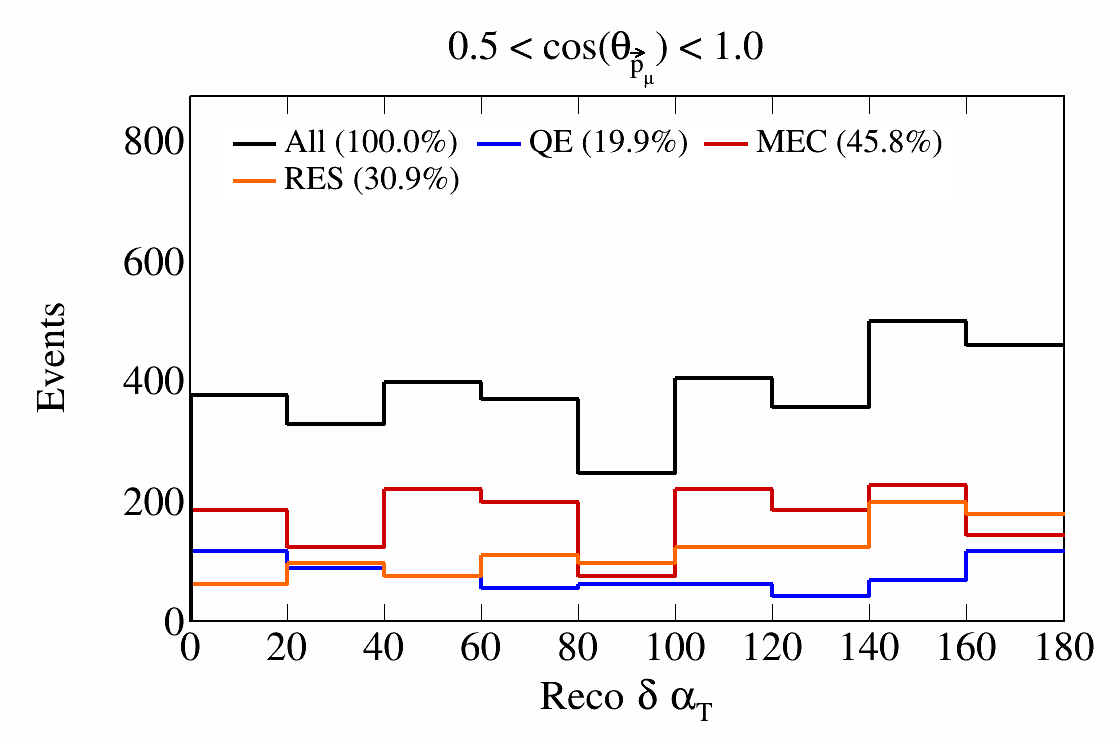
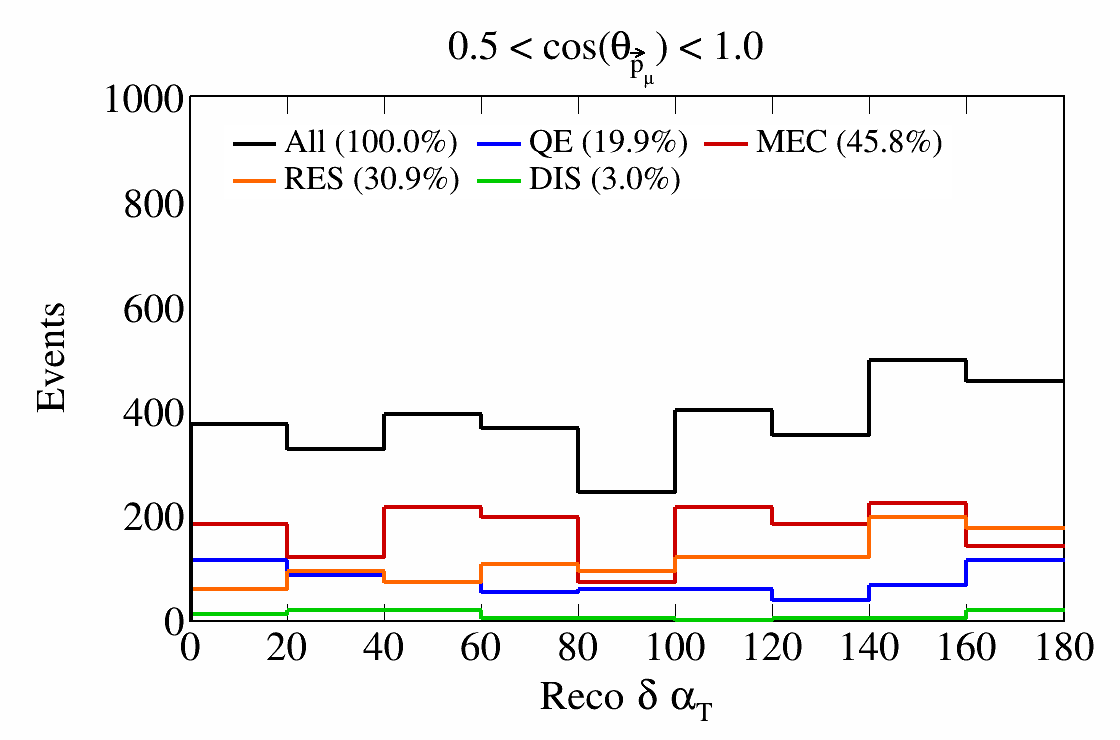
Topology and interaction breakdown for SBND analysis

diff --git a/CAFAnaAnalysis/Scripts/SelectionTopologyBreakdown.C b/CAFAnaAnalysis/Scripts/SelectionTopologyBreakdown.C
@@ -27,7 +27,7 @@ using namespace std;
 using namespace ana;
 using namespace Constants;
 
-void SelectionInteBreakdown() {
+void SelectionTopologyBreakdown() {
     // Set defaults and load tools
     TH1D::SetDefaultSumw2();
     TH2D::SetDefaultSumw2();
@@ -47,7 +47,7 @@ void SelectionInteBreakdown() {
     TString dir = "/exp/sbnd/app/users/epelaez/CC1muAnalysis";
 
     // Root file to store objects in
-    TString RootFilePath = "/exp/sbnd/data/users/epelaez/CAFAnaOutput/SelectionInteBreakdown.root";
+    TString RootFilePath = "/exp/sbnd/data/users/epelaez/CAFAnaOutput/SelectionTopologyBreakdown.root";
     TFile* SaveFile = new TFile(RootFilePath, "UPDATE");
 
     // Vectors to fill with variables and variable information to plot
@@ -118,34 +118,34 @@ void SelectionInteBreakdown() {
     Vars.push_back(kCosOpeningAngleMuonTotalProtonInMuonCosTheta); VarBins.push_back(bCosOpeningAngleMuonTotalProtonInMuonCosTheta);
     PlotNames.push_back("SerialCosOpeningAngleMuonTotalProton_InMuonCosTheta"); VarLabels.push_back("cos(#theta_{#vec{p}_{#mu},#vec{p}_{sum}})");
 
-    ////////////////////
-    // Interaction modes
-    ////////////////////
+    //////////////
+    // Topologies
+    //////////////
 
-    std::vector<std::tuple<std::string, int>> IntModes = {
-        {"QE", 0},
-        {"MEC", 10},
-        {"RES", 1},
-        {"DIS", 2}
+    std::vector<std::tuple<std::string, TruthCut>> Topologies = {
+        {"CC2p0#pi", kTruthIsSignal},
+        {"CC1p0#pi", kCC1p0pi},
+        {"CC(N > 2)p0#pi", kCCNg2p0pi},
+        {"CC(N #geq 0)p1#pi", kCCNgt0p1pi},
+        {"CC0p0#pi", kCC0p0pi},
+        {"Other", kOtherTopology}
+        // {"CC(N #geq 0)p(N > 1)#pi", kCCNgt0pNg1pi},
     };
-    std::vector<int> Colors{kBlack, kBlue, kRed+1, kOrange+7, kGreen+1};
+    std::vector<int> Colors{kBlack, kBlue, kRed+1, kOrange+7, kGreen+1, kMagenta+1, kCyan+2};
 
     std::vector<std::vector<std::unique_ptr<Spectrum>>> Spectra;
     for (std::size_t i = 0; i < Vars.size(); i++) {
         std::vector<std::unique_ptr<Spectrum>> InnerSpectra;
 
-        // Without any interaction discrimination
+        // Without any topology discrimination
         auto RecoSignals = std::make_unique<Spectrum>(VarLabels.at(i), VarBins.at(i), NuLoader, Vars.at(i), kNoSpillCut, kRecoIsSignal); 
         InnerSpectra.push_back(std::move(RecoSignals));
 
-        for (std::size_t j = 0; j < IntModes.size(); j++) {
-            int IntCode = std::get<1>(IntModes[j]);
+        for (std::size_t j = 0; j < Topologies.size(); j++) {
+            TruthCut TopologyCut = std::get<1>(Topologies[j]);
 
             const Cut kRecoSignalsCut([=](const caf::SRSliceProxy* slc) {
-                return (
-                    kRecoIsSignal(slc) &&
-                    slc->truth.genie_mode == IntCode
-                );
+                return kRecoIsSignal(slc) && TopologyCut(&slc->truth);
             });
             auto RecoSignals = std::make_unique<Spectrum>(VarLabels.at(i), VarBins.at(i), NuLoader, Vars.at(i), kNoSpillCut, kRecoSignalsCut); 
             InnerSpectra.push_back(std::move(RecoSignals));
@@ -166,7 +166,7 @@ void SelectionInteBreakdown() {
             std::vector<std::vector<TH1D*>> Histos;
             Histos.resize(NSlices);
             for (int iSlice = 0; iSlice < NSlices; iSlice++) {
-                Histos[iSlice].resize(IntModes.size());
+                Histos[iSlice].resize(Topologies.size());
             }
 
             for (int iSlice = 0; iSlice < NSlices; iSlice++) {
@@ -191,59 +191,58 @@ void SelectionInteBreakdown() {
                 PlotCanvas->SetRightMargin(0.05);
                 PlotCanvas->SetBottomMargin(0.16);
 
-                TLegend* leg = new TLegend(0.2,0.73,0.85,0.83);
+                TLegend* leg = new TLegend(0.2,0.68,0.87,0.83);
                 leg->SetBorderSize(0);
-                leg->SetNColumns(3);
-                leg->SetTextSize(TextSize*0.8);
+                leg->SetNColumns(2);
+                leg->SetTextSize(TextSize*0.7);
                 leg->SetTextFont(FontStyle);
 
-                for (std::size_t iInt = 0; iInt < IntModes.size() + 1; iInt++) {
-                    auto& IntRecoSignals = Spectra[iVar][iInt];
-                    Histos[iSlice][iInt]= tools.GetHistoBins(
-                        IntRecoSignals->ToTH1(TargetPOT),
+                for (std::size_t iTop = 0; iTop < Topologies.size() + 1; iTop++) {
+                    auto& TopRecoSignals = Spectra[iVar][iTop];
+                    Histos[iSlice][iTop]= tools.GetHistoBins(
+                        TopRecoSignals->ToTH1(TargetPOT),
                         SerialVectorLowBin.at(iSlice),
                         SerialVectorHighBin.at(iSlice),
                         SliceWidth,
                         SerialSliceBinning,
-                        VarLabels[iInt]
+                        VarLabels[iTop]
                     );
-                    Histos[iSlice][iInt]->SetLineWidth(4);
-                    Histos[iSlice][iInt]->SetLineColor(Colors.at(iInt));
+                    Histos[iSlice][iTop]->SetLineWidth(4);
+                    Histos[iSlice][iTop]->SetLineColor(Colors.at(iTop));
 
-                    Histos[iSlice][iInt]->GetXaxis()->SetTitleFont(FontStyle);
-                    Histos[iSlice][iInt]->GetXaxis()->SetLabelFont(FontStyle);
-                    Histos[iSlice][iInt]->GetXaxis()->SetNdivisions(8);
-                    Histos[iSlice][iInt]->GetXaxis()->SetLabelSize(TextSize);
-                    Histos[iSlice][iInt]->GetXaxis()->SetTitle(("Reco " + VarLabels.at(iVar)).c_str());
-                    Histos[iSlice][iInt]->GetXaxis()->SetTitleSize(TextSize);
-                    Histos[iSlice][iInt]->GetXaxis()->SetTitleOffset(1.1);
-                    Histos[iSlice][iInt]->GetXaxis()->CenterTitle();
+                    Histos[iSlice][iTop]->GetXaxis()->SetTitleFont(FontStyle);
+                    Histos[iSlice][iTop]->GetXaxis()->SetLabelFont(FontStyle);
+                    Histos[iSlice][iTop]->GetXaxis()->SetNdivisions(8);
+                    Histos[iSlice][iTop]->GetXaxis()->SetLabelSize(TextSize);
+                    Histos[iSlice][iTop]->GetXaxis()->SetTitle(("Reco " + VarLabels.at(iVar)).c_str());
+                    Histos[iSlice][iTop]->GetXaxis()->SetTitleSize(TextSize);
+                    Histos[iSlice][iTop]->GetXaxis()->SetTitleOffset(1.1);
+                    Histos[iSlice][iTop]->GetXaxis()->CenterTitle();
 
-                    Histos[iSlice][iInt]->GetYaxis()->SetTitleFont(FontStyle);
-                    Histos[iSlice][iInt]->GetYaxis()->SetLabelFont(FontStyle);
-                    Histos[iSlice][iInt]->GetYaxis()->SetNdivisions(6);
-                    Histos[iSlice][iInt]->GetYaxis()->SetLabelSize(TextSize);
-                    Histos[iSlice][iInt]->GetYaxis()->SetTitleSize(TextSize);
-                    Histos[iSlice][iInt]->GetYaxis()->SetTitleOffset(1.3);
-                    Histos[iSlice][iInt]->GetYaxis()->SetTickSize(0);
-                    Histos[iSlice][iInt]->GetYaxis()->CenterTitle();
+                    Histos[iSlice][iTop]->GetYaxis()->SetTitleFont(FontStyle);
+                    Histos[iSlice][iTop]->GetYaxis()->SetLabelFont(FontStyle);
+                    Histos[iSlice][iTop]->GetYaxis()->SetNdivisions(6);
+                    Histos[iSlice][iTop]->GetYaxis()->SetLabelSize(TextSize);
+                    Histos[iSlice][iTop]->GetYaxis()->SetTitleSize(TextSize);
+                    Histos[iSlice][iTop]->GetYaxis()->SetTitleOffset(1.3);
+                    Histos[iSlice][iTop]->GetYaxis()->SetTickSize(0);
+                    Histos[iSlice][iTop]->GetYaxis()->CenterTitle();
 
-                    double imax = TMath::Max(Histos[iSlice][iInt]->GetMaximum(),Histos[iSlice][0]->GetMaximum());
-                    double YAxisRange = 1.15*imax;
-                    Histos[iSlice][iInt]->GetYaxis()->SetRangeUser(0.,YAxisRange);
-                    Histos[iSlice][0]->GetYaxis()->SetRangeUser(0.,YAxisRange);			
+                    double imax = Histos[iSlice][0]->GetMaximum();
+                    double YAxisRange = 1.4*imax;
+                    Histos[iSlice][iTop]->GetYaxis()->SetRangeUser(0.,YAxisRange);
 
-                    double frac = Histos[iSlice][iInt]->Integral("width") / Histos[iSlice][0]->Integral("width") * 100.;
-                    std::string IntLabel = (iInt == 0) ? "All" : std::get<0>(IntModes[iInt - 1]);
-                    TString LegLabel = (TString)IntLabel + " (" + tools.to_string_with_precision(frac,1) + "%)";
-                    TLegendEntry* legReco = leg->AddEntry(Histos[iSlice][iInt],LegLabel,"l");
+                    double frac = Histos[iSlice][iTop]->Integral("width") / Histos[iSlice][0]->Integral("width") * 100.;
+                    std::string TopLabel = (iTop == 0) ? "All" : std::get<0>(Topologies[iTop - 1]);
+                    TString LegLabel = (TString)TopLabel + " (" + tools.to_string_with_precision(frac,1) + "%)";
+                    TLegendEntry* legReco = leg->AddEntry(Histos[iSlice][iTop],LegLabel,"l");
 
                     PlotCanvas->cd();
-                    Histos[iSlice][iInt]->Draw("hist same");
+                    Histos[iSlice][iTop]->Draw("hist same");
                     Histos[iSlice][0]->Draw("hist same");
 
                     // Save to root file
-                    SaveFile->WriteObject(Histos[iSlice][iInt], SlicePlotName+(TString)LegLabel+"_reco");
+                    SaveFile->WriteObject(Histos[iSlice][iTop], SlicePlotName+(TString)LegLabel+"_reco");
                 }
                 leg->Draw();
 
@@ -254,77 +253,75 @@ void SelectionInteBreakdown() {
                 textSlice->DrawLatexNDC(0.4,0.92,SliceLabel);
 
                 // Save as png
-                PlotCanvas->SaveAs(dir+"/Figs/CAFAna/InteBreakdown/"+SlicePlotName+".png");
+                PlotCanvas->SaveAs(dir+"/Figs/CAFAna/TopologyBreakdown/"+SlicePlotName+".png");
 
                 delete PlotCanvas;
             }
         } else {
-            std::vector<TH1D*> Histos; Histos.resize(IntModes.size() + 1);
+            std::vector<TH1D*> Histos; Histos.resize(Topologies.size() + 1);
             TCanvas* PlotCanvas = new TCanvas("Selection","Selection",205,34,1124,768);
             PlotCanvas->SetTopMargin(0.13);
             PlotCanvas->SetLeftMargin(0.17);
             PlotCanvas->SetRightMargin(0.05);
             PlotCanvas->SetBottomMargin(0.16);
 
-            TLegend* leg = new TLegend(0.2,0.73,0.85,0.83);
+            TLegend* leg = new TLegend(0.2,0.68,0.87,0.83);
             leg->SetBorderSize(0);
-            leg->SetNColumns(3);
-            leg->SetTextSize(TextSize*0.8);
+            leg->SetNColumns(2);
+            leg->SetTextSize(TextSize*0.7);
             leg->SetTextFont(FontStyle);
 
-            for (std::size_t iInt = 0; iInt < IntModes.size() + 1; iInt++) {
-                auto& IntRecoSignals = Spectra[iVar][iInt];
-                Histos[iInt] = IntRecoSignals->ToTH1(TargetPOT);
+            for (std::size_t iTop = 0; iTop < Topologies.size() + 1; iTop++) {
+                auto& TopRecoSignals = Spectra[iVar][iTop];
+                Histos[iTop] = TopRecoSignals->ToTH1(TargetPOT);
 
                 // Manage under/overflow bins
-                Histos[iInt]->SetBinContent(Histos[iInt]->GetNbinsX(), Histos[iInt]->GetBinContent(Histos[iInt]->GetNbinsX()) + Histos[iInt]->GetBinContent(Histos[iInt]->GetNbinsX() + 1));
-                Histos[iInt]->SetBinContent(1, Histos[iInt]->GetBinContent(0) + Histos[iInt]->GetBinContent(1));
+                Histos[iTop]->SetBinContent(Histos[iTop]->GetNbinsX(), Histos[iTop]->GetBinContent(Histos[iTop]->GetNbinsX()) + Histos[iTop]->GetBinContent(Histos[iTop]->GetNbinsX() + 1));
+                Histos[iTop]->SetBinContent(1, Histos[iTop]->GetBinContent(0) + Histos[iTop]->GetBinContent(1));
 
-                double frac = Histos[iInt]->Integral("width") / Histos[0]->Integral("width") * 100.;
-                std::string IntLabel = (iInt == 0) ? "All" : std::get<0>(IntModes[iInt - 1]);
-                TString LegLabel = (TString)IntLabel + " (" + tools.to_string_with_precision(frac,1) + "%)";
-                TLegendEntry* legReco = leg->AddEntry(Histos[iInt],LegLabel,"l");
-                Histos[iInt]->SetLineColor(Colors.at(iInt));
-                Histos[iInt]->SetLineWidth(4);
+                double frac = Histos[iTop]->Integral("width") / Histos[0]->Integral("width") * 100.;
+                std::string TopLabel = (iTop == 0) ? "All" : std::get<0>(Topologies[iTop - 1]);
+                TString LegLabel = (TString)TopLabel + " (" + tools.to_string_with_precision(frac,1) + "%)";
+                TLegendEntry* legReco = leg->AddEntry(Histos[iTop],LegLabel,"l");
+                Histos[iTop]->SetLineColor(Colors.at(iTop));
+                Histos[iTop]->SetLineWidth(4);
 
                 // Style histograms
-                if (iInt == 0) {
-                    Histos[iInt]->GetXaxis()->SetTitleFont(FontStyle);
-                    Histos[iInt]->GetXaxis()->SetLabelFont(FontStyle);
-                    Histos[iInt]->GetXaxis()->SetNdivisions(8);
-                    Histos[iInt]->GetXaxis()->SetLabelSize(TextSize);
-                    Histos[iInt]->GetXaxis()->SetTitleSize(TextSize);
-                    Histos[iInt]->GetXaxis()->SetTitleOffset(1.1);
-                    Histos[iInt]->GetXaxis()->CenterTitle();
-                    Histos[iInt]->GetXaxis()->SetTitle(("Reco " + VarLabels.at(iVar)).c_str());
+                if (iTop == 0) {
+                    Histos[iTop]->GetXaxis()->SetTitleFont(FontStyle);
+                    Histos[iTop]->GetXaxis()->SetLabelFont(FontStyle);
+                    Histos[iTop]->GetXaxis()->SetNdivisions(8);
+                    Histos[iTop]->GetXaxis()->SetLabelSize(TextSize);
+                    Histos[iTop]->GetXaxis()->SetTitleSize(TextSize);
+                    Histos[iTop]->GetXaxis()->SetTitleOffset(1.1);
+                    Histos[iTop]->GetXaxis()->CenterTitle();
+                    Histos[iTop]->GetXaxis()->SetTitle(("Reco " + VarLabels.at(iVar)).c_str());
 
-                    Histos[iInt]->GetYaxis()->SetTitleFont(FontStyle);
-                    Histos[iInt]->GetYaxis()->SetLabelFont(FontStyle);
-                    Histos[iInt]->GetYaxis()->SetNdivisions(6);
-                    Histos[iInt]->GetYaxis()->SetLabelSize(TextSize);
-                    Histos[iInt]->GetYaxis()->SetTitleSize(TextSize);
-                    Histos[iInt]->GetYaxis()->SetTitleOffset(1.3);
-                    Histos[iInt]->GetYaxis()->SetTickSize(0);
-                    Histos[iInt]->GetYaxis()->CenterTitle();
+                    Histos[iTop]->GetYaxis()->SetTitleFont(FontStyle);
+                    Histos[iTop]->GetYaxis()->SetLabelFont(FontStyle);
+                    Histos[iTop]->GetYaxis()->SetNdivisions(6);
+                    Histos[iTop]->GetYaxis()->SetLabelSize(TextSize);
+                    Histos[iTop]->GetYaxis()->SetTitleSize(TextSize);
+                    Histos[iTop]->GetYaxis()->SetTitleOffset(1.3);
+                    Histos[iTop]->GetYaxis()->SetTickSize(0);
+                    Histos[iTop]->GetYaxis()->CenterTitle();
                 }
                 double imax = Histos[0]->GetMaximum();
-                double YAxisRange = 1.3*imax;
-                Histos[iInt]->GetYaxis()->SetRangeUser(0.,YAxisRange);
+                double YAxisRange = 1.4*imax;
+                Histos[iTop]->GetYaxis()->SetRangeUser(0.,YAxisRange);
 
                 PlotCanvas->cd();
-                Histos[iInt]->Draw("hist same");
+                Histos[iTop]->Draw("hist same");
 
                 // Save to root file
-                SaveFile->WriteObject(Histos[iInt], PlotNames[iVar]+(TString)LegLabel+"_reco");
+                SaveFile->WriteObject(Histos[iTop], PlotNames[iVar]+(TString)LegLabel+"_reco");
             }
             leg->Draw();
 
             // Save as png
-            PlotCanvas->SaveAs(dir+"/Figs/CAFAna/InteBreakdown/"+PlotNames[iVar]+".png");
+            PlotCanvas->SaveAs(dir+"/Figs/CAFAna/TopologyBreakdown/"+PlotNames[iVar]+".png");
 
             delete PlotCanvas;
         }
-
-        
     }
 }

diff --git a/CAFAnaAnalysis/Scripts/Definitions.h b/CAFAnaAnalysis/Scripts/Definitions.h
@@ -674,6 +674,81 @@ namespace ana
         return (kTruthIsSignal(nu) && kValidEnergyTruthCut(nu));
     });
 
+    // Truth cuts for other topologies
+    const TruthCut kCCNgt0p1pi([](const caf::SRTrueInteractionProxy* nu) {
+        int nChargedPions = iCountMultParticle(nu, 211, std::get<0>(PDGToThreshold.at(211)), std::get<1>(PDGToThreshold.at(211))) + iCountMultParticle(nu, -211, std::get<0>(PDGToThreshold.at(-211)), std::get<1>(PDGToThreshold.at(-211)));
+        return (
+            bIsInFV(&nu->position) &&
+            nu->iscc &&
+            nu->pdg == 14 &&
+            iCountMultParticle(nu, 13, std::get<0>(PDGToThreshold.at(13)), std::get<1>(PDGToThreshold.at(13))) == 1 && // check for one muon
+            nChargedPions == 1 &&                                                                                      // one charged pion
+            iCountMultParticle(nu, 111, std::get<0>(PDGToThreshold.at(111)), std::get<1>(PDGToThreshold.at(111))) == 0 // no neutral pions
+        );
+    });
+
+    const TruthCut kCCNg2p0pi([](const caf::SRTrueInteractionProxy* nu) {
+        return (
+            bIsInFV(&nu->position) &&
+            nu->iscc &&
+            nu->pdg == 14 &&
+            iCountMultParticle(nu, 13, std::get<0>(PDGToThreshold.at(13)), std::get<1>(PDGToThreshold.at(13))) == 1 &&       // check for one muon
+            iCountMultParticle(nu, 2212, std::get<0>(PDGToThreshold.at(2212)), std::get<1>(PDGToThreshold.at(2212))) > 2 &&  // check for more than two protons
+            iCountMultParticle(nu, 211, std::get<0>(PDGToThreshold.at(211)), std::get<1>(PDGToThreshold.at(211))) == 0 &&    // no positively charged pion
+            iCountMultParticle(nu, -211, std::get<0>(PDGToThreshold.at(-211)), std::get<1>(PDGToThreshold.at(-211))) == 0 && // no negatively charged pion
+            iCountMultParticle(nu, 111, std::get<0>(PDGToThreshold.at(111)), std::get<1>(PDGToThreshold.at(111))) == 0       // no neutral pions
+        );
+    });
+
+    const TruthCut kCC1p0pi([](const caf::SRTrueInteractionProxy* nu) {
+        return (
+            bIsInFV(&nu->position) &&
+            nu->iscc &&
+            nu->pdg == 14 &&
+            iCountMultParticle(nu, 13, std::get<0>(PDGToThreshold.at(13)), std::get<1>(PDGToThreshold.at(13))) == 1 &&       // check for one muon
+            iCountMultParticle(nu, 2212, std::get<0>(PDGToThreshold.at(2212)), std::get<1>(PDGToThreshold.at(2212))) == 1 && // check for one proton
+            iCountMultParticle(nu, 211, std::get<0>(PDGToThreshold.at(211)), std::get<1>(PDGToThreshold.at(211))) == 0 &&    // no positively charged pion
+            iCountMultParticle(nu, -211, std::get<0>(PDGToThreshold.at(-211)), std::get<1>(PDGToThreshold.at(-211))) == 0 && // no negatively charged pion
+            iCountMultParticle(nu, 111, std::get<0>(PDGToThreshold.at(111)), std::get<1>(PDGToThreshold.at(111))) == 0       // no neutral pions
+        );
+    });
+
+    const TruthCut kCC0p0pi([](const caf::SRTrueInteractionProxy* nu) {
+        return (
+            bIsInFV(&nu->position) &&
+            nu->iscc &&
+            nu->pdg == 14 &&
+            iCountMultParticle(nu, 13, std::get<0>(PDGToThreshold.at(13)), std::get<1>(PDGToThreshold.at(13))) == 1 &&       // check for one muon
+            iCountMultParticle(nu, 2212, std::get<0>(PDGToThreshold.at(2212)), std::get<1>(PDGToThreshold.at(2212))) == 0 && // no protons
+            iCountMultParticle(nu, 211, std::get<0>(PDGToThreshold.at(211)), std::get<1>(PDGToThreshold.at(211))) == 0 &&    // no positively charged pion
+            iCountMultParticle(nu, -211, std::get<0>(PDGToThreshold.at(-211)), std::get<1>(PDGToThreshold.at(-211))) == 0 && // no negatively charged pion
+            iCountMultParticle(nu, 111, std::get<0>(PDGToThreshold.at(111)), std::get<1>(PDGToThreshold.at(111))) == 0       // no neutral pions
+        );
+    });
+
+    const TruthCut kCCNgt0pNg1pi([](const caf::SRTrueInteractionProxy* nu) {
+        int nChargedPions = iCountMultParticle(nu, 211, std::get<0>(PDGToThreshold.at(211)), std::get<1>(PDGToThreshold.at(211))) + iCountMultParticle(nu, -211, std::get<0>(PDGToThreshold.at(-211)), std::get<1>(PDGToThreshold.at(-211)));
+        return (
+            bIsInFV(&nu->position) &&
+            nu->iscc &&
+            nu->pdg == 14 &&
+            iCountMultParticle(nu, 13, std::get<0>(PDGToThreshold.at(13)), std::get<1>(PDGToThreshold.at(13))) == 1 && // check for one muon
+            nChargedPions > 1 &&                                                                                       // more than one charged pion
+            iCountMultParticle(nu, 111, std::get<0>(PDGToThreshold.at(111)), std::get<1>(PDGToThreshold.at(111))) == 0 // no neutral pions
+        );
+    });
+
+    const TruthCut kOtherTopology([](const caf::SRTrueInteractionProxy* nu) {
+        return !(
+            kTruthIsSignal(nu) ||
+            kCC1p0pi(nu) ||
+            kCCNg2p0pi(nu) ||
+            kCCNgt0p1pi(nu) ||
+            kCC0p0pi(nu)
+            // kCCNgt0pNg1pi
+        );
+    });
+
     //////////////
     // Cuts
     //////////////
